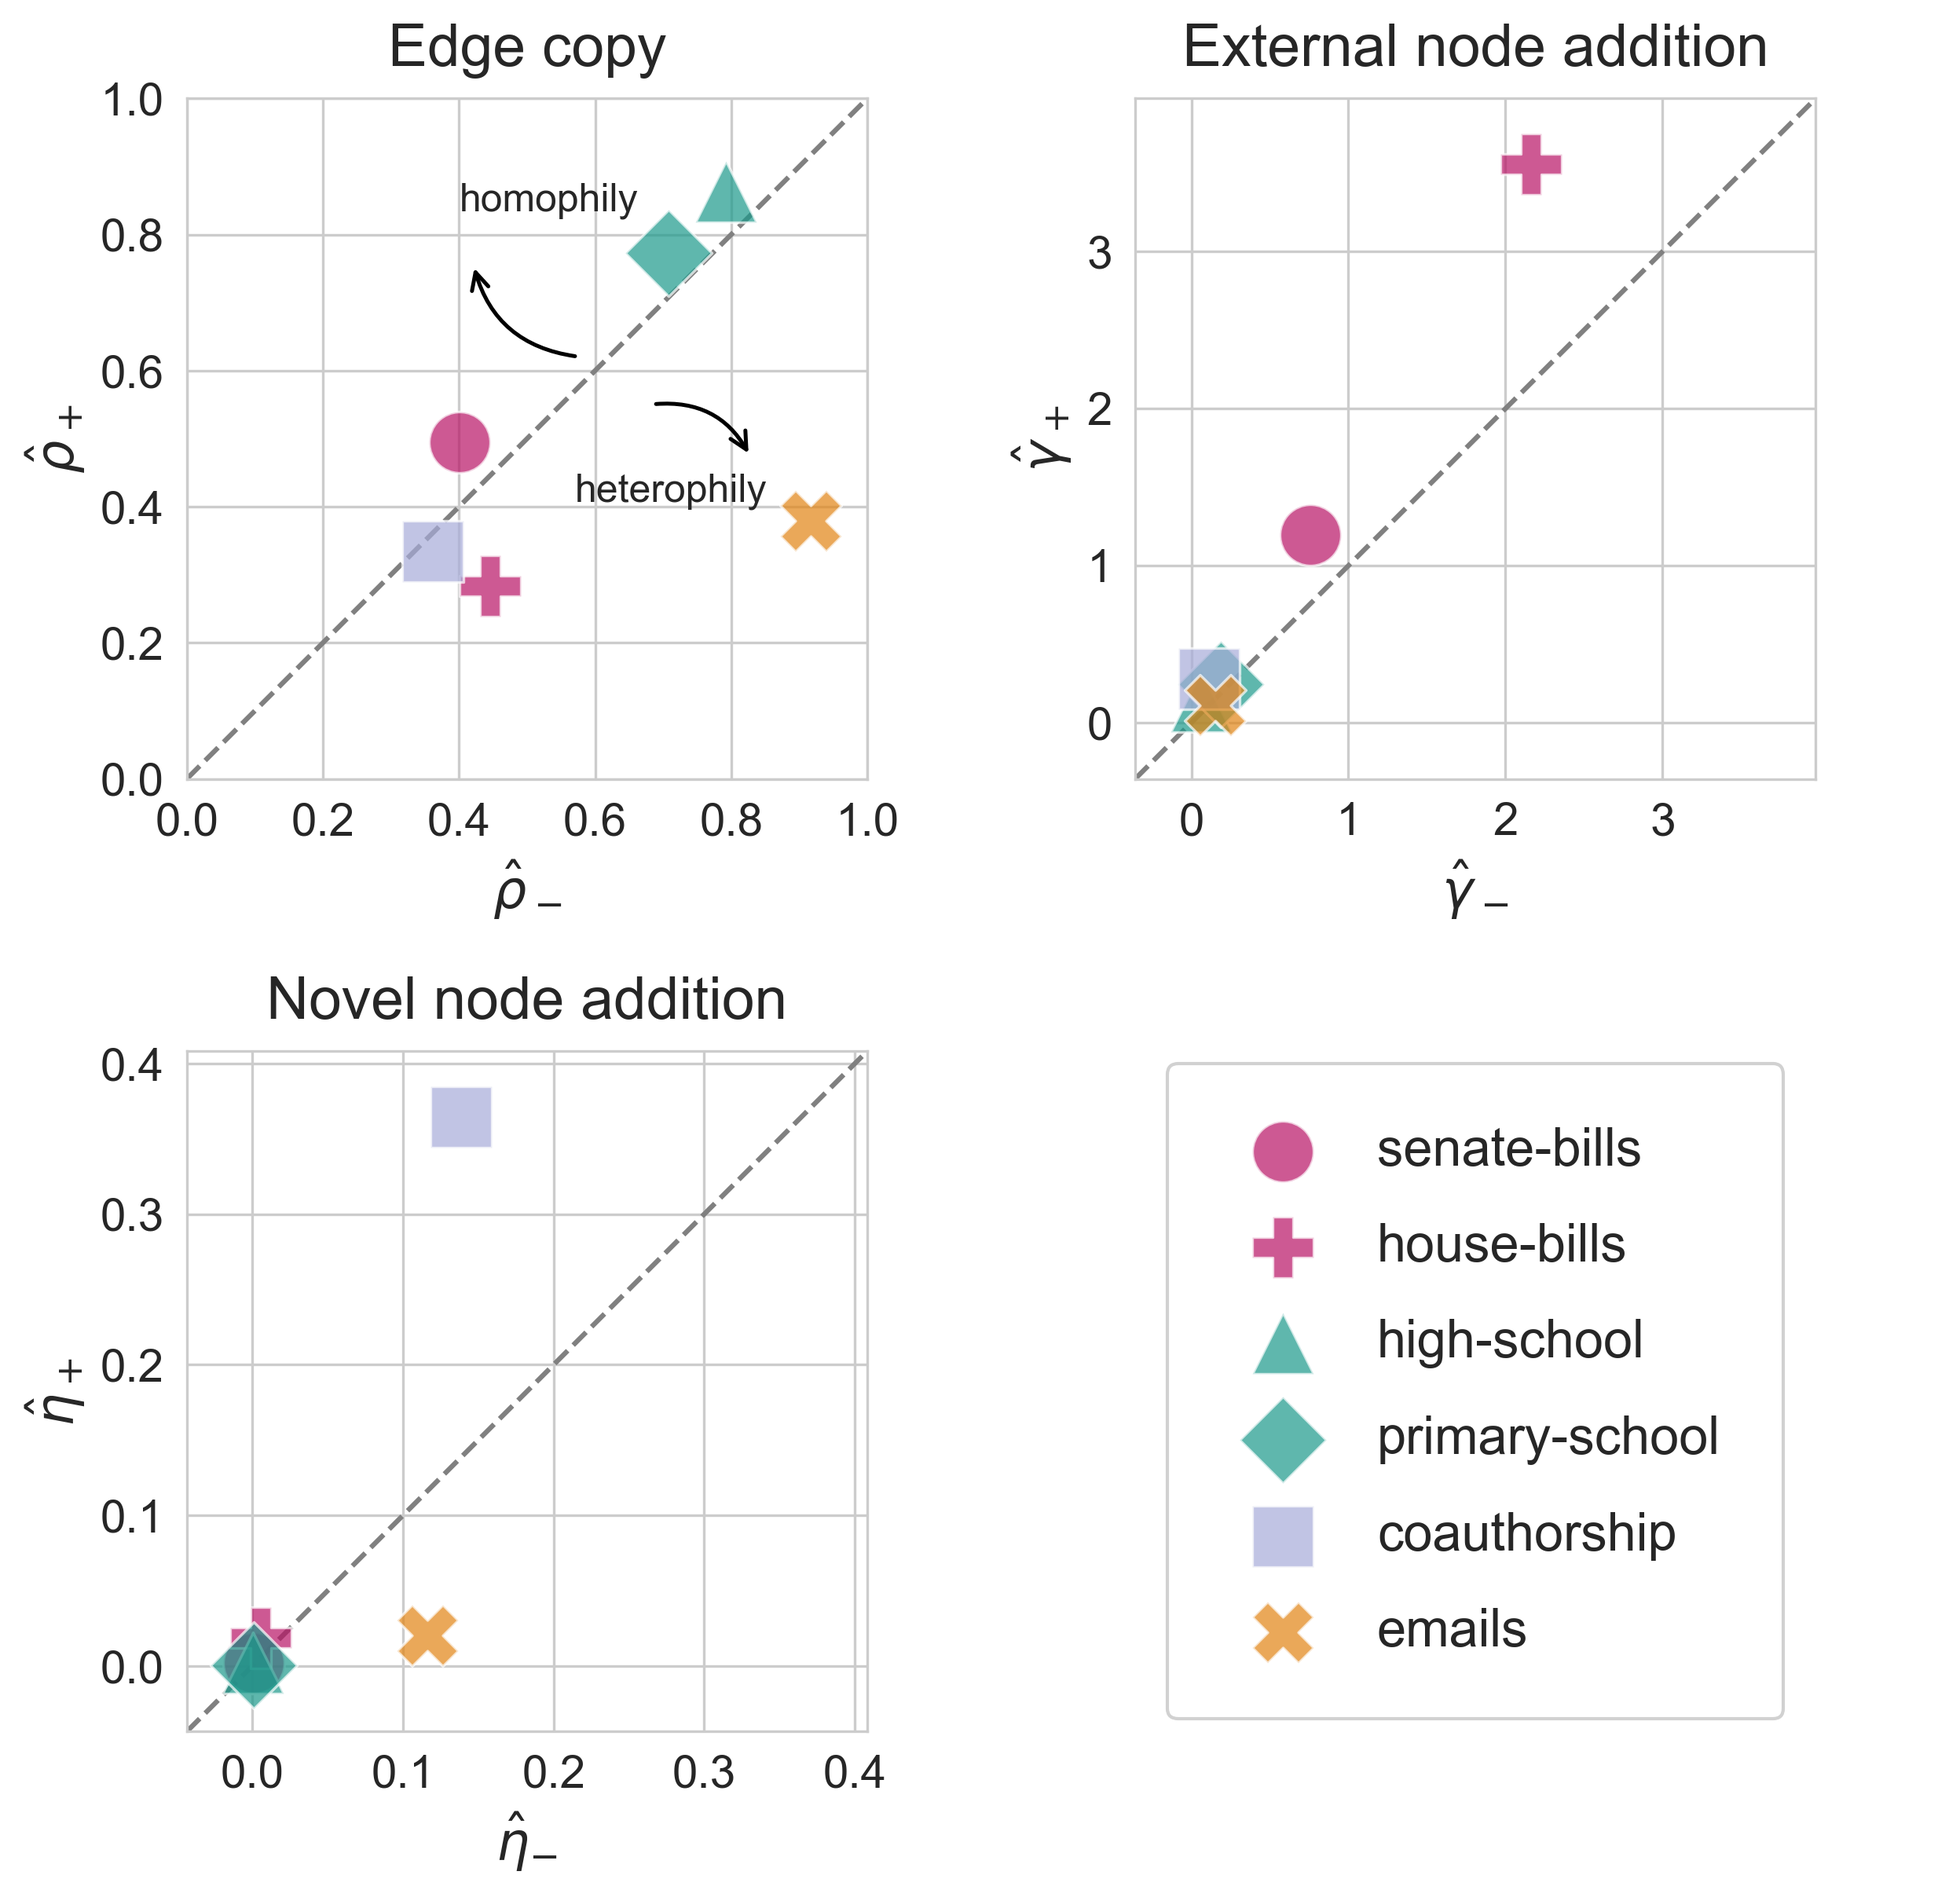
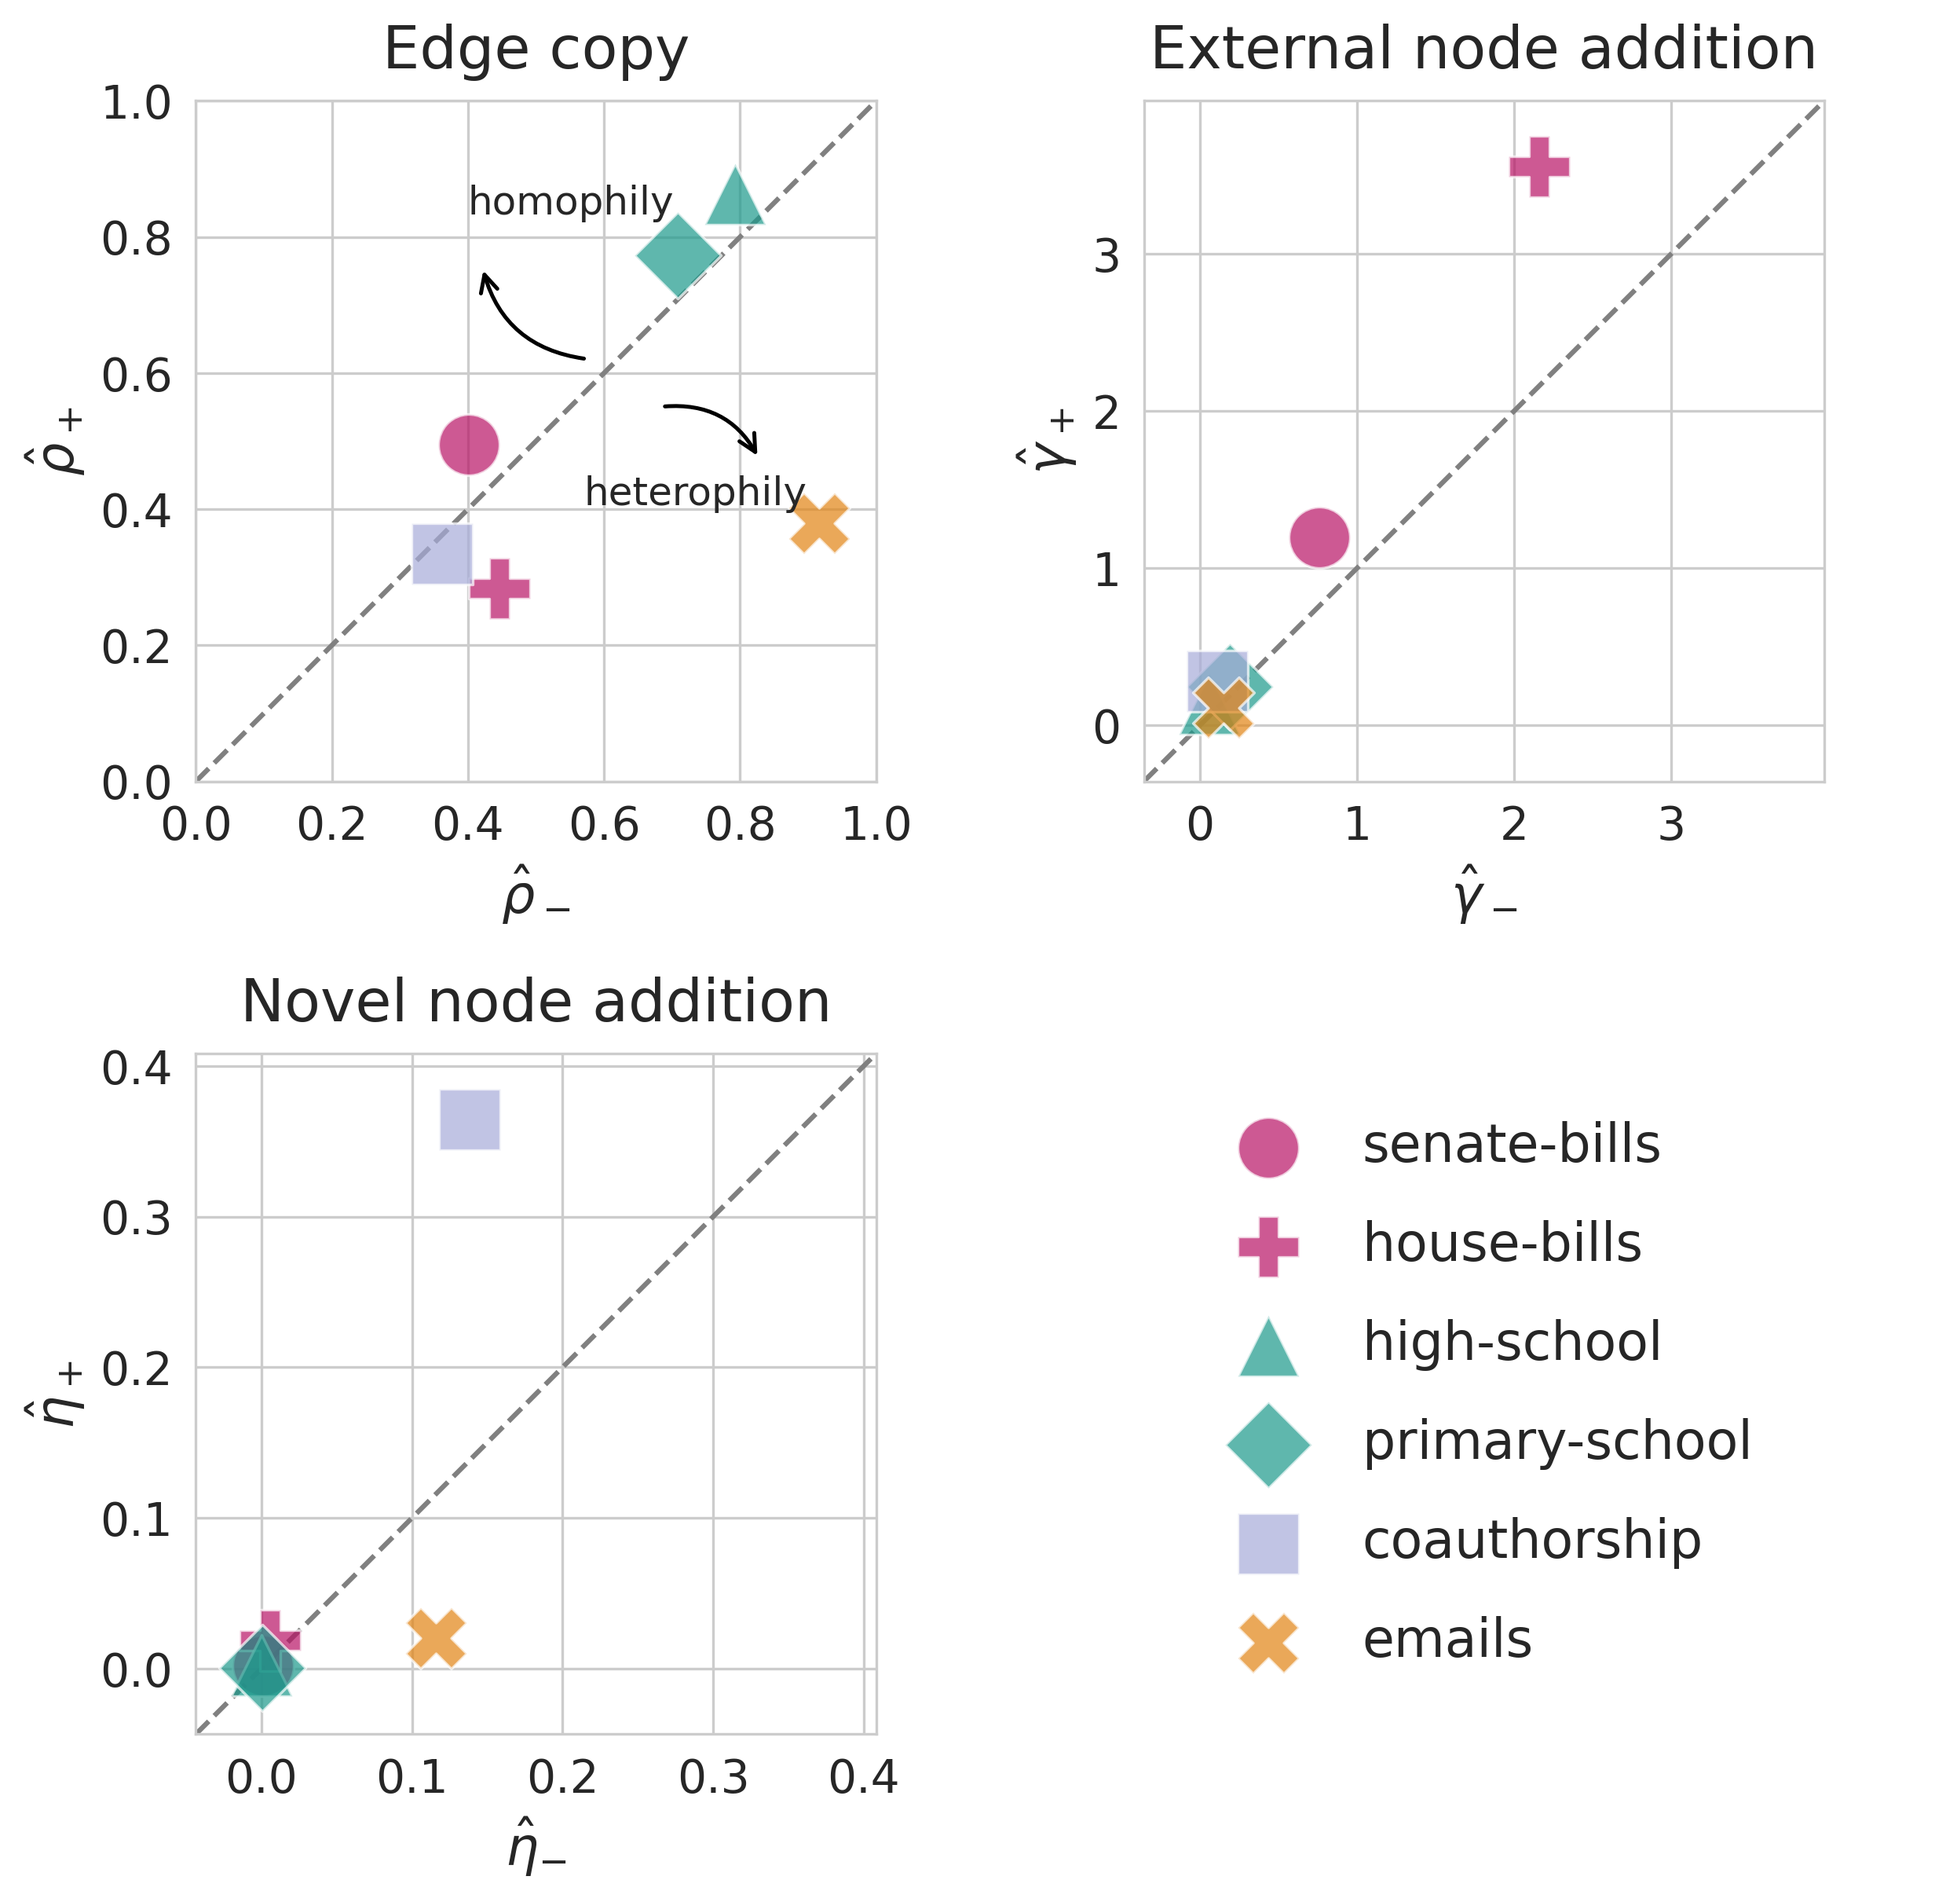
no frame on legend

diff --git a/scripts/empirical_sem.py b/scripts/empirical_sem.py
@@ -256,7 +256,7 @@ handles, labels = panel_axes[0].get_legend_handles_labels()
 ax_legend.legend(
     handles, labels,
     loc="center",
-    frameon=True,
+    frameon=False,
     framealpha=0.9,
     fontsize=16,
     markerscale=1.0,
